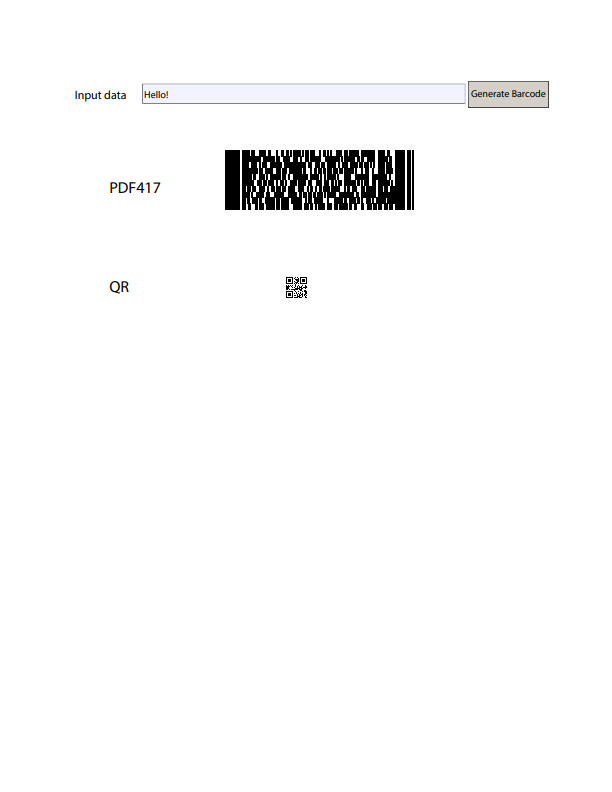
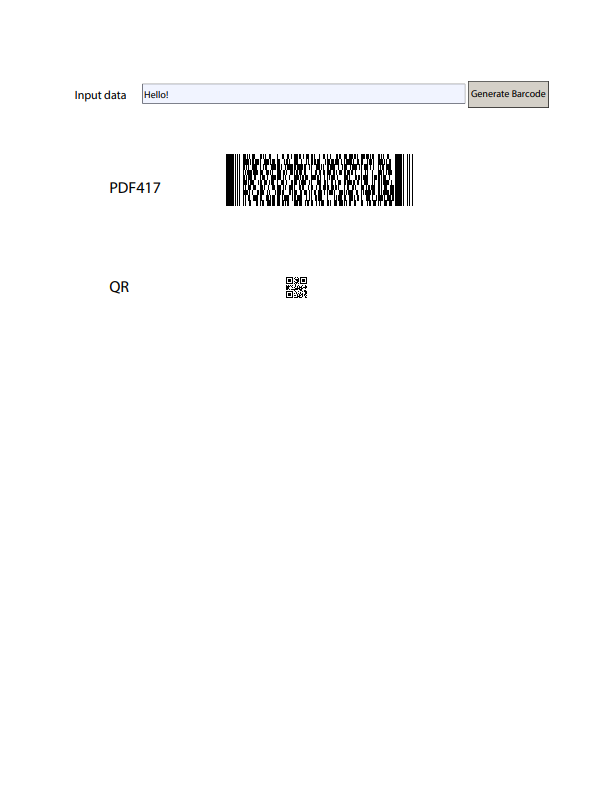
Optimize rendering of two dimensional barcodes: deduplicate regions.
Reduce the logical size of the barcode by removing unnecessary
region duplication.

As far as I can tell, the line thickness is useless and the aspect
ratio causes arbitrary changes in rounding, but ultimately the
dimensions of a barcode are defined by its width and height, rather
than by this ratio.

Also remove rotation code to simplify, though we don't have any
sample PDFs with this.

The improvement with this CL is from ~580ms to ~390ms per barcode,
so about 1.5x. Combined with
https://pdfium-review.googlesource.com/c/pdfium/+/40010
the improvement is to ~15ms, which is about 39x.

Changed region(s): [[0.3725, 0.1818, 0.683, 0.2727]]

diff --git a/fxbarcode/pdf417/BC_PDF417Writer.cpp b/fxbarcode/pdf417/BC_PDF417Writer.cpp
@@ -63,49 +63,11 @@ uint8_t* CBC_PDF417Writer::Encode(const WideString& contents,
   if (!encoder.generateBarcodeLogic(contents, m_iCorrectLevel))
     return nullptr;
 
-  int32_t lineThickness = 2;
-  int32_t aspectRatio = 4;
   CBC_BarcodeMatrix* barcodeMatrix = encoder.getBarcodeMatrix();
-  std::vector<uint8_t> originalScale = barcodeMatrix->getScaledMatrix(
-      lineThickness, aspectRatio * lineThickness);
-  int32_t width = outWidth;
-  int32_t height = outHeight;
+  std::vector<uint8_t> originalScale = barcodeMatrix->getMatrix();
   outWidth = barcodeMatrix->getWidth();
   outHeight = barcodeMatrix->getHeight();
-  bool rotated = false;
-  if ((height > width) ^ (outWidth < outHeight)) {
-    rotateArray(originalScale, outHeight, outWidth);
-    rotated = true;
-    int32_t temp = outHeight;
-    outHeight = outWidth;
-    outWidth = temp;
-  }
-  int32_t scaleX = width / outWidth;
-  int32_t scaleY = height / outHeight;
-  int32_t scale = std::min(scaleX, scaleY);
-  if (scale > 1) {
-    originalScale = barcodeMatrix->getScaledMatrix(
-        scale * lineThickness, scale * aspectRatio * lineThickness);
-    if (rotated) {
-      rotateArray(originalScale, outHeight, outWidth);
-      int32_t temp = outHeight;
-      outHeight = outWidth;
-      outWidth = temp;
-    }
-  }
   uint8_t* result = FX_Alloc2D(uint8_t, outHeight, outWidth);
   memcpy(result, originalScale.data(), outHeight * outWidth);
   return result;
-}
-
-void CBC_PDF417Writer::rotateArray(std::vector<uint8_t>& bitarray,
-                                   int32_t height,
-                                   int32_t width) {
-  std::vector<uint8_t> temp = bitarray;
-  for (int32_t ii = 0; ii < height; ii++) {
-    int32_t inverseii = height - ii - 1;
-    for (int32_t jj = 0; jj < width; jj++) {
-      bitarray[jj * height + inverseii] = temp[ii * width + jj];
-    }
-  }
 }

diff --git a/xfa/fwl/cfx_barcode_unittest.cpp b/xfa/fwl/cfx_barcode_unittest.cpp
@@ -127,7 +127,7 @@ TEST_F(BarcodeTest, Pdf417) {
   EXPECT_TRUE(Create(BC_PDF417));
   EXPECT_TRUE(barcode()->Encode(L"clams"));
   RenderDevice();
-  EXPECT_EQ("2bdb9b39f20c5763da6a0d7c7b1f6933", BitmapChecksum());
+  EXPECT_EQ("3a154001167ff0b8511b72677dd4c5a4", BitmapChecksum());
 }
 
 TEST_F(BarcodeTest, DataMatrix) {

diff --git a/fxbarcode/pdf417/BC_PDF417Writer.h b/fxbarcode/pdf417/BC_PDF417Writer.h
@@ -28,9 +28,6 @@ class CBC_PDF417Writer : public CBC_TwoDimWriter {
   void SetTruncated(bool truncated);
 
  private:
-  void rotateArray(std::vector<uint8_t>& bitarray,
-                   int32_t width,
-                   int32_t height);
   bool m_bTruncated;
 };
 
